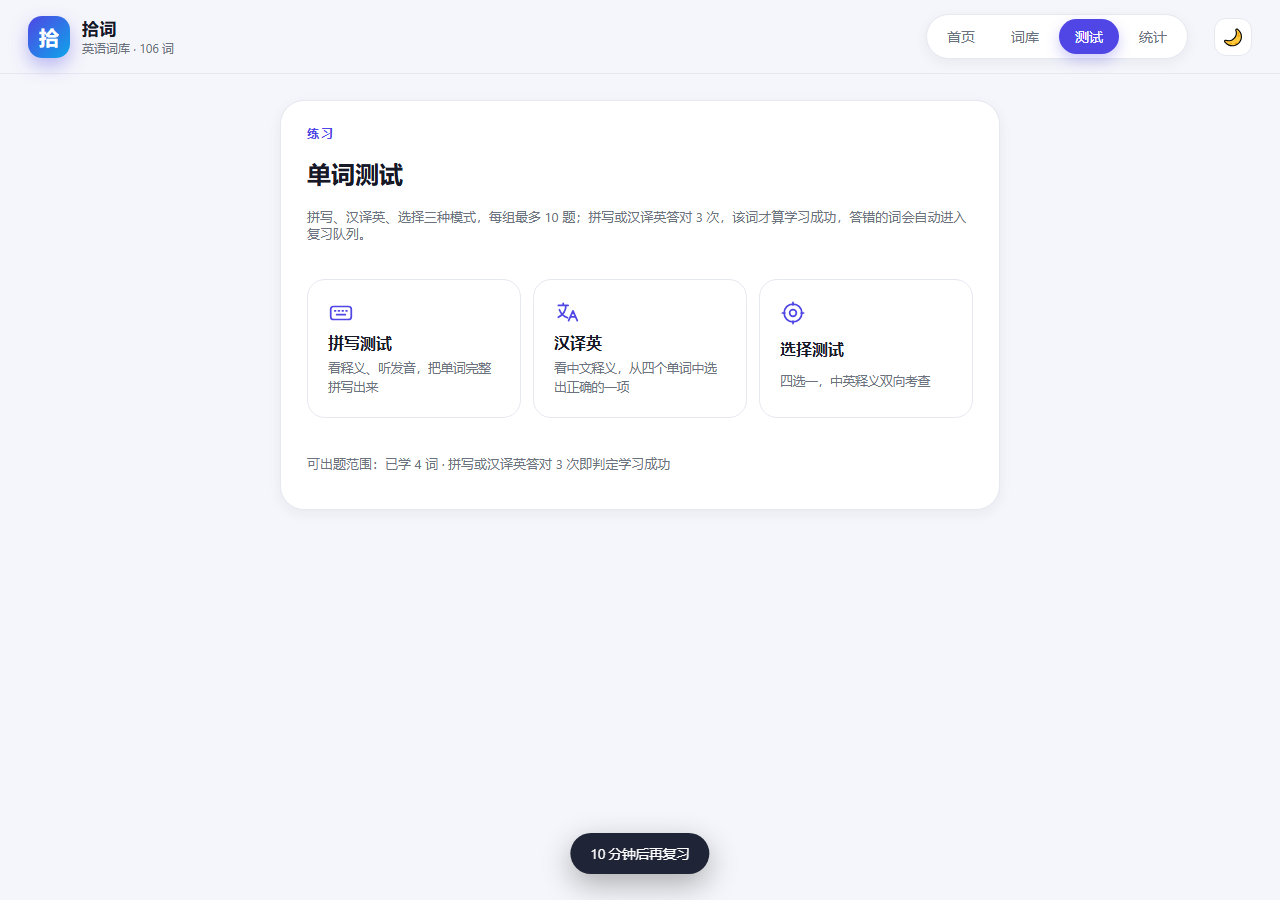
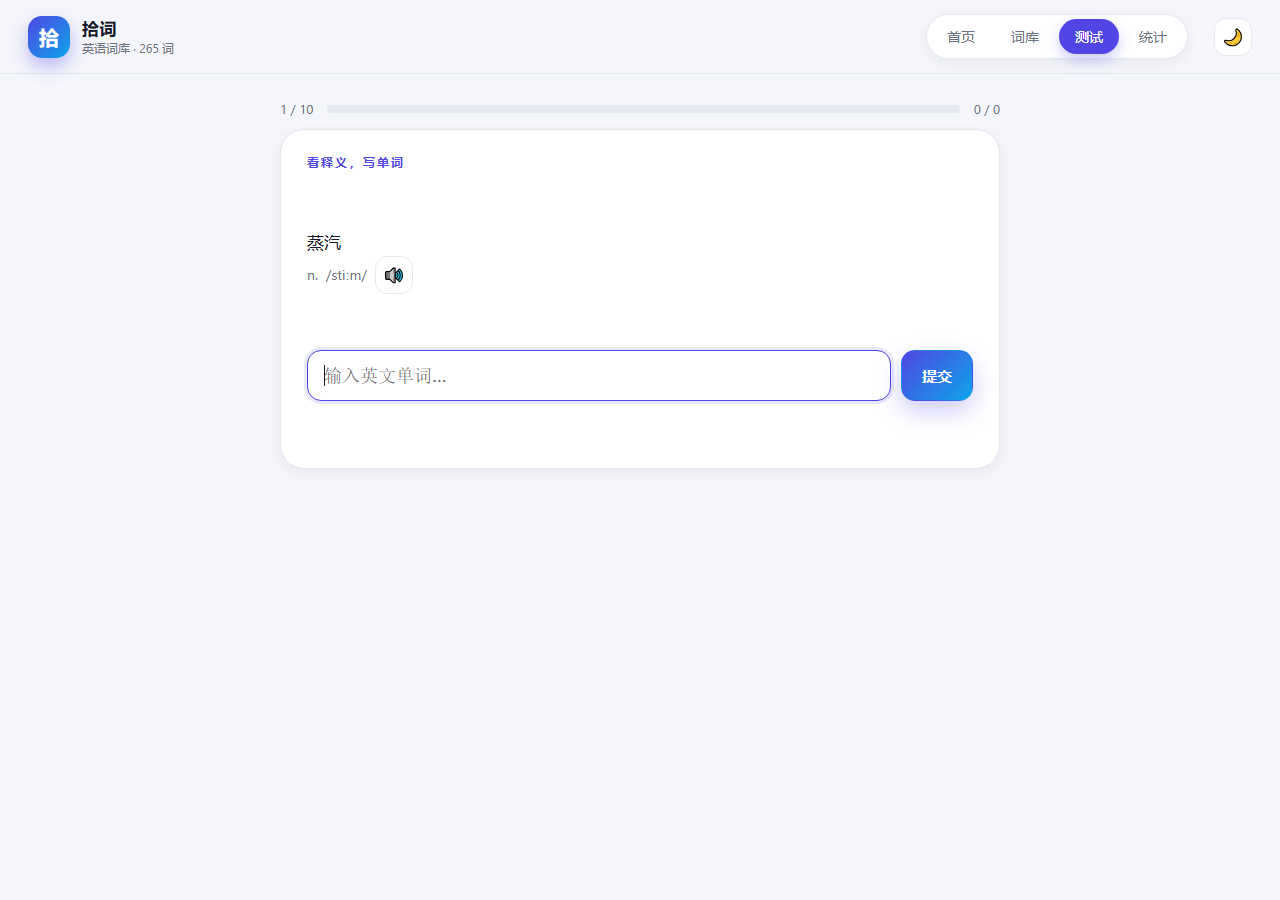
feat: 词库更新至265词，测试模式新增音标开关

diff --git a/index.html b/index.html
@@ -432,7 +432,7 @@
           <span class="pos" id="posText"></span>
           <p class="def" id="defText"></p>
         </div>
-        <div class="example">
+        <div class="example" id="exampleBox">
           <p class="ex-en"><span id="exEn"></span><button id="speakEx" aria-label="播放例句">🔊</button></p>
           <p class="ex-zh" id="exZh"></p>
         </div>
@@ -482,6 +482,13 @@
         <p class="eyebrow">练习</p>
         <h2>单词测试</h2>
         <p class="muted small">拼写、汉译英、选择三种模式，每组最多 10 题；拼写或汉译英答对 3 次，该词才算学习成功，答错的词会自动进入复习队列。</p>
+        <div class="field" style="margin:16px 0 4px">
+          <label>题目音标</label>
+          <div class="chips" id="ipaChips">
+            <button class="chip active" data-ipa="on">显示音标</button>
+            <button class="chip" data-ipa="off">隐藏音标</button>
+          </div>
+        </div>
         <div class="mode-cards">
           <button class="mode-card" data-quiz="spell">
             <span class="mode-icon" aria-hidden="true"><svg viewBox="0 0 24 24" width="26" height="26" fill="none" stroke="currentColor" stroke-width="1.6" stroke-linecap="round"><rect x="2.5" y="6" width="19" height="12" rx="2.6"/><path d="M6.2 10h.8M9.7 10h.8M13.2 10h.8M16.7 10h.8M8 13.6h8"/></svg></span>
@@ -591,7 +598,7 @@
       <button class="icon-btn" id="dSpeak" aria-label="播放发音">🔊</button>
     </div>
     <p class="modal-def"><span class="pos" id="dPos"></span> <span id="dDef"></span></p>
-    <div class="modal-ex">
+    <div class="modal-ex" id="dExample">
       <p class="ex-en"><span id="dEx"></span><button id="dSpeakEx" aria-label="播放例句">🔊</button></p>
       <p class="ex-zh" id="dExZh"></p>
     </div>
@@ -718,7 +725,166 @@ const WORDS = [
   {w:"Increasingly", ipa:"/ɪnˈkriːsɪŋli/", pos:"adv.", def:"越来越多地，日益", ex:"Work is becoming increasingly stressful.", exZh:"工作压力越来越大。"},
   {w:"Stuffing", ipa:"/ˈstʌfɪŋ/", pos:"n.", def:"（烹饪）填料，馅；填充物", ex:"She made stuffing for the turkey.", exZh:"她为火鸡做了填料。"},
   {w:"Stare at", ipa:"/steə æt/", pos:"phr.", def:"盯着看，凝视", ex:"Don't stare at people; it's rude.", exZh:"不要盯着人看，这样不礼貌。"},
-  {w:"Phrase", ipa:"/freɪz/", pos:"n. / v.", def:"短语，词组；措辞 / 用……措辞表达", ex:"Learn the phrase as a whole.", exZh:"把这个短语作为一个整体来记。"}
+  {w:"Phrase", ipa:"/freɪz/", pos:"n. / v.", def:"短语，词组；措辞 / 用……措辞表达", ex:"Learn the phrase as a whole.", exZh:"把这个短语作为一个整体来记。"},
+  {w:"Chemical", ipa:"/ˈkemɪkl/", pos:"adj. / n.", def:"化学的 / 化学品", ex:"", exZh:""},
+  {w:"Budget", ipa:"/ˈbʌdʒɪt/", pos:"n. / v.", def:"预算 / 编制预算", ex:"", exZh:""},
+  {w:"Lung", ipa:"/lʌŋ/", pos:"n.", def:"肺", ex:"", exZh:""},
+  {w:"Rush", ipa:"/rʌʃ/", pos:"v. / n.", def:"冲，急速行动 / 匆忙", ex:"", exZh:""},
+  {w:"Tale", ipa:"/teɪl/", pos:"n.", def:"故事，传说", ex:"", exZh:""},
+  {w:"Revise", ipa:"/rɪˈvaɪz/", pos:"v.", def:"修订，修改；复习", ex:"", exZh:""},
+  {w:"Highway", ipa:"/ˈhaɪweɪ/", pos:"n.", def:"公路", ex:"", exZh:""},
+  {w:"Rapid", ipa:"/ˈræpɪd/", pos:"adj.", def:"迅速的，快速的", ex:"", exZh:""},
+  {w:"Nail", ipa:"/neɪl/", pos:"n. / v.", def:"钉子；指甲 / 钉住", ex:"", exZh:""},
+  {w:"Pigeon", ipa:"/ˈpɪdʒɪn/", pos:"n.", def:"鸽子", ex:"", exZh:""},
+  {w:"Palace", ipa:"/ˈpæləs/", pos:"n.", def:"宫殿", ex:"", exZh:""},
+  {w:"Tuition", ipa:"/tjuˈɪʃn/", pos:"n.", def:"学费；教学", ex:"", exZh:""},
+  {w:"Rocket", ipa:"/ˈrɒkɪt/", pos:"n.", def:"火箭", ex:"", exZh:""},
+  {w:"Bleed", ipa:"/bliːd/", pos:"v.", def:"流血", ex:"", exZh:""},
+  {w:"Flat", ipa:"/flæt/", pos:"adj. / n.", def:"平的，水平的 / 公寓（英）", ex:"", exZh:""},
+  {w:"Dentist", ipa:"/ˈdentɪst/", pos:"n.", def:"牙科医生", ex:"", exZh:""},
+  {w:"Core", ipa:"/kɔː/", pos:"n.", def:"核心，果核", ex:"", exZh:""},
+  {w:"Fuel", ipa:"/ˈfjuːəl/", pos:"n. / v.", def:"燃料 / 加燃料", ex:"", exZh:""},
+  {w:"Citizen", ipa:"/ˈsɪtɪzn/", pos:"n.", def:"市民，公民", ex:"", exZh:""},
+  {w:"Radar", ipa:"/ˈreɪdɑː/", pos:"n.", def:"雷达", ex:"", exZh:""},
+  {w:"Lend", ipa:"/lend/", pos:"v.", def:"借出", ex:"", exZh:""},
+  {w:"Cable", ipa:"/ˈkeɪbl/", pos:"n.", def:"电缆，缆绳", ex:"", exZh:""},
+  {w:"Petrol", ipa:"/ˈpetrəl/", pos:"n.", def:"汽油（英）", ex:"", exZh:""},
+  {w:"Gasoline", ipa:"/ˈɡæsəliːn/", pos:"n.", def:"汽油（美）", ex:"", exZh:""},
+  {w:"Tablet", ipa:"/ˈtæblət/", pos:"n.", def:"平板电脑；药片", ex:"", exZh:""},
+  {w:"Decade", ipa:"/ˈdekeɪd/", pos:"n.", def:"十年", ex:"", exZh:""},
+  {w:"Selfish", ipa:"/ˈselfɪʃ/", pos:"adj.", def:"自私的", ex:"", exZh:""},
+  {w:"Scan", ipa:"/skæn/", pos:"v. / n.", def:"扫描；浏览 / 扫描", ex:"", exZh:""},
+  {w:"Tube", ipa:"/tjuːb/", pos:"n.", def:"管，隧道；地铁（英）", ex:"", exZh:""},
+  {w:"Therefore", ipa:"/ˈðeəfɔː/", pos:"adv.", def:"因此，所以", ex:"", exZh:""},
+  {w:"Unfortunately", ipa:"/ʌnˈfɔːtʃənətli/", pos:"adv.", def:"不幸地，遗憾地", ex:"", exZh:""},
+  {w:"Slice", ipa:"/slaɪs/", pos:"n. / v.", def:"薄片 / 切片", ex:"", exZh:""},
+  {w:"Clerk", ipa:"/klɑːk/", pos:"n.", def:"办事员，职员", ex:"", exZh:""},
+  {w:"Coach", ipa:"/kəʊtʃ/", pos:"n.", def:"教练；长途客车", ex:"", exZh:""},
+  {w:"Shore", ipa:"/ʃɔː/", pos:"n.", def:"岸，滨", ex:"", exZh:""},
+  {w:"Rural", ipa:"/ˈrʊərəl/", pos:"adj.", def:"乡下的，乡村的", ex:"", exZh:""},
+  {w:"Pilot", ipa:"/ˈpaɪlət/", pos:"n. / v.", def:"飞行员 / 驾驶，试验", ex:"", exZh:""},
+  {w:"Tape", ipa:"/teɪp/", pos:"n. / v.", def:"带子，磁带 / 录音", ex:"", exZh:""},
+  {w:"Jam", ipa:"/dʒæm/", pos:"n. / v.", def:"果酱 / 塞满，卡住", ex:"", exZh:""},
+  {w:"Bloom", ipa:"/bluːm/", pos:"v. / n.", def:"开花，繁荣 / 花", ex:"", exZh:""},
+  {w:"Trick", ipa:"/trɪk/", pos:"n. / v.", def:"诡计 / 欺骗", ex:"", exZh:""},
+  {w:"Tricky", ipa:"/ˈtrɪki/", pos:"adj.", def:"难以捉摸的，棘手的", ex:"", exZh:""},
+  {w:"In the hope of", ipa:"/ɪn ðə həʊp ɒv/", pos:"phr.", def:"怀着……的希望", ex:"", exZh:""},
+  {w:"Head office", ipa:"/hed ˈɒfɪs/", pos:"phr.", def:"总公司", ex:"", exZh:""},
+  {w:"Weigh", ipa:"/weɪ/", pos:"v.", def:"称重；重达", ex:"", exZh:""},
+  {w:"Head for", ipa:"/hed fɔː/", pos:"phr.", def:"前往，出发去", ex:"", exZh:""},
+  {w:"Headache", ipa:"/ˈhedeɪk/", pos:"n.", def:"头疼", ex:"", exZh:""},
+  {w:"Headline", ipa:"/ˈhedlaɪn/", pos:"n.", def:"头条新闻", ex:"", exZh:""},
+  {w:"Headquarters", ipa:"/ˌhedˈkwɔːtəz/", pos:"n.", def:"总部", ex:"", exZh:""},
+  {w:"Trace", ipa:"/treɪs/", pos:"n. / v.", def:"踪迹 / 追踪", ex:"", exZh:""},
+  {w:"Trace back to", ipa:"/treɪs bæk tuː/", pos:"phr.", def:"追溯到", ex:"", exZh:""},
+  {w:"Smooth", ipa:"/smuːð/", pos:"adj.", def:"光滑的；顺利的", ex:"", exZh:""},
+  {w:"Or so", ipa:"/ɔː səʊ/", pos:"phr.", def:"大约，左右", ex:"", exZh:""},
+  {w:"And so on/forth", ipa:"/ənd səʊ ɒn/", pos:"phr.", def:"等等", ex:"", exZh:""},
+  {w:"So far", ipa:"/səʊ fɑː/", pos:"phr.", def:"迄今为止", ex:"", exZh:""},
+  {w:"So as to", ipa:"/səʊ æz tuː/", pos:"phr.", def:"为了，以便", ex:"", exZh:""},
+  {w:"Couple", ipa:"/ˈkʌpl/", pos:"n.", def:"两个，几个；夫妇", ex:"", exZh:""},
+  {w:"Oral", ipa:"/ˈɔːrəl/", pos:"adj.", def:"口头的", ex:"", exZh:""},
+  {w:"Review", ipa:"/rɪˈvjuː/", pos:"n. / v.", def:"回顾，复习；评论 / 复习", ex:"", exZh:""},
+  {w:"Tone", ipa:"/təʊn/", pos:"n.", def:"语气，音调；风格", ex:"", exZh:""},
+  {w:"The rest", ipa:"/ðə rest/", pos:"phr.", def:"剩余部分，其余部分", ex:"", exZh:""},
+  {w:"Restless", ipa:"/ˈrestləs/", pos:"adj.", def:"得不到休息的，不安宁的", ex:"", exZh:""},
+  {w:"Tip", ipa:"/tɪp/", pos:"n. / v.", def:"尖端；小费 / 倾斜", ex:"", exZh:""},
+  {w:"Troop", ipa:"/truːp/", pos:"n.", def:"一群；军队，部队", ex:"", exZh:""},
+  {w:"Target", ipa:"/ˈtɑːɡɪt/", pos:"n.", def:"靶子，目标", ex:"", exZh:""},
+  {w:"Sort out", ipa:"/sɔːt aʊt/", pos:"phr.", def:"整理，分类；解决", ex:"", exZh:""},
+  {w:"Other than", ipa:"/ˈʌðə ðæn/", pos:"phr.", def:"除了", ex:"", exZh:""},
+  {w:"The other day", ipa:"/ði ˈʌðə deɪ/", pos:"phr.", def:"不久前的某天", ex:"", exZh:""},
+  {w:"At times", ipa:"/ət taɪmz/", pos:"phr.", def:"有时", ex:"", exZh:""},
+  {w:"For the time being", ipa:"/fɔː ðə taɪm ˈbiːɪŋ/", pos:"phr.", def:"暂时", ex:"", exZh:""},
+  {w:"From time to time", ipa:"/frəm taɪm tuː taɪm/", pos:"phr.", def:"有时，不时", ex:"", exZh:""},
+  {w:"In no time", ipa:"/ɪn nəʊ taɪm/", pos:"phr.", def:"立即，马上", ex:"", exZh:""},
+  {w:"Once upon a time", ipa:"/wʌns əˈpɒn ə taɪm/", pos:"phr.", def:"从前", ex:"", exZh:""},
+  {w:"Take one's time", ipa:"/teɪk wʌnz taɪm/", pos:"phr.", def:"从容不迫，慢慢来", ex:"", exZh:""},
+  {w:"Iron", ipa:"/ˈaɪən/", pos:"n. / v.", def:"铁；熨斗 / 熨烫", ex:"", exZh:""},
+  {w:"Sow", ipa:"/səʊ/", pos:"v.", def:"播种", ex:"", exZh:""},
+  {w:"By way of", ipa:"/baɪ weɪ ɒv/", pos:"phr.", def:"通过……方法；经由", ex:"", exZh:""},
+  {w:"In a way", ipa:"/ɪn ə weɪ/", pos:"phr.", def:"在某种意义上", ex:"", exZh:""},
+  {w:"In the way", ipa:"/ɪn ðə weɪ/", pos:"phr.", def:"挡道", ex:"", exZh:""},
+  {w:"Under way", ipa:"/ˈʌndə weɪ/", pos:"phr.", def:"在进行中", ex:"", exZh:""},
+  {w:"Make way", ipa:"/meɪk weɪ/", pos:"phr.", def:"让路", ex:"", exZh:""},
+  {w:"Make one's way", ipa:"/meɪk wʌnz weɪ/", pos:"phr.", def:"行进，前往", ex:"", exZh:""},
+  {w:"Garbage", ipa:"/ˈɡɑːbɪdʒ/", pos:"n.", def:"垃圾", ex:"", exZh:""},
+  {w:"Source", ipa:"/sɔːs/", pos:"n.", def:"来源，源头", ex:"", exZh:""},
+  {w:"Meet", ipa:"/miːt/", pos:"v.", def:"遇见；满足", ex:"", exZh:""},
+  {w:"Hold", ipa:"/həʊld/", pos:"v.", def:"握住；容纳；举行", ex:"", exZh:""},
+  {w:"Bury", ipa:"/ˈberi/", pos:"v.", def:"埋葬；掩埋", ex:"", exZh:""},
+  {w:"Dump", ipa:"/dʌmp/", pos:"v. / n.", def:"倾倒 / 垃圾场", ex:"", exZh:""},
+  {w:"Coal", ipa:"/kəʊl/", pos:"n.", def:"煤", ex:"", exZh:""},
+  {w:"Petroleum", ipa:"/pəˈtrəʊliəm/", pos:"n.", def:"石油", ex:"", exZh:""},
+  {w:"Gas", ipa:"/ɡæs/", pos:"n.", def:"气体；汽油", ex:"", exZh:""},
+  {w:"Scarce", ipa:"/skeəs/", pos:"adj.", def:"稀少的，缺乏的", ex:"", exZh:""},
+  {w:"Fossil fuel", ipa:"/ˈfɒsl fjuːəl/", pos:"phr.", def:"化石燃料", ex:"", exZh:""},
+  {w:"Supply", ipa:"/səˈplaɪ/", pos:"n. / v.", def:"供应，供给", ex:"", exZh:""},
+  {w:"Steam", ipa:"/stiːm/", pos:"n.", def:"蒸汽", ex:"", exZh:""},
+  {w:"Power plant", ipa:"/ˈpaʊə plɑːnt/", pos:"phr.", def:"发电厂", ex:"", exZh:""},
+  {w:"Barrel", ipa:"/ˈbærəl/", pos:"n.", def:"桶", ex:"", exZh:""},
+  {w:"Separate", ipa:"/ˈsepəreɪt/", pos:"v. / adj.", def:"分开 / 单独的", ex:"", exZh:""},
+  {w:"Metal", ipa:"/ˈmetl/", pos:"n.", def:"金属", ex:"", exZh:""},
+  {w:"Process", ipa:"/ˈprəʊses/", pos:"n. / v.", def:"过程 / 处理", ex:"", exZh:""},
+  {w:"Pile up", ipa:"/paɪl ʌp/", pos:"phr.", def:"堆积", ex:"", exZh:""},
+  {w:"Pile", ipa:"/paɪl/", pos:"n. / v.", def:"堆 / 堆放", ex:"", exZh:""},
+  {w:"Take up", ipa:"/teɪk ʌp/", pos:"phr.", def:"占用；开始从事", ex:"", exZh:""},
+  {w:"Account for", ipa:"/əˈkaʊnt fɔː/", pos:"phr.", def:"解释；占（比例）", ex:"", exZh:""},
+  {w:"Get on well with...", ipa:"/ɡet ɒn wel wɪð/", pos:"phr.", def:"与……相处融洽", ex:"", exZh:""},
+  {w:"Overseas", ipa:"/ˌəʊvəˈsiːz/", pos:"adj. / adv.", def:"海外的 / 在海外", ex:"", exZh:""},
+  {w:"Illegally", ipa:"/ɪˈliːɡəli/", pos:"adv.", def:"非法地", ex:"", exZh:""},
+  {w:"Legal", ipa:"/ˈliːɡl/", pos:"adj.", def:"合法的；法律的", ex:"", exZh:""},
+  {w:"Private", ipa:"/ˈpraɪvət/", pos:"adj.", def:"私人的，私有的", ex:"", exZh:""},
+  {w:"Collector", ipa:"/kəˈlektə/", pos:"n.", def:"收藏家；收集者", ex:"", exZh:""},
+  {w:"Treasure", ipa:"/ˈtreʒə/", pos:"n. / v.", def:"宝藏 / 珍视", ex:"", exZh:""},
+  {w:"Own", ipa:"/əʊn/", pos:"adj. / v.", def:"自己的 / 拥有", ex:"", exZh:""},
+  {w:"Major", ipa:"/ˈmeɪdʒə/", pos:"adj. / n.", def:"主要的 / 专业", ex:"", exZh:""},
+  {w:"Recover", ipa:"/rɪˈkʌvə/", pos:"v.", def:"恢复；找回", ex:"", exZh:""},
+  {w:"In the same case", ipa:"/ɪn ðə seɪm keɪs/", pos:"phr.", def:"在同样的情况下", ex:"", exZh:""},
+  {w:"Donate", ipa:"/dəʊˈneɪt/", pos:"v.", def:"捐赠", ex:"", exZh:""},
+  {w:"Turn to", ipa:"/tɜːn tuː/", pos:"phr.", def:"求助于；转向", ex:"", exZh:""},
+  {w:"Channel", ipa:"/ˈtʃænl/", pos:"n.", def:"频道；渠道；海峡", ex:"", exZh:""},
+  {w:"Demand", ipa:"/dɪˈmɑːnd/", pos:"n. / v.", def:"需求 / 要求", ex:"", exZh:""},
+  {w:"Priceless", ipa:"/ˈpraɪsləs/", pos:"adj.", def:"无价的，极珍贵的", ex:"", exZh:""},
+  {w:"Bronze", ipa:"/brɒnz/", pos:"n.", def:"青铜；青铜色", ex:"", exZh:""},
+  {w:"Entrepreneur", ipa:"/ˌɒntrəprəˈnɜː/", pos:"n.", def:"企业家", ex:"", exZh:""},
+  {w:"Precious", ipa:"/ˈpreʃəs/", pos:"adj.", def:"珍贵的", ex:"", exZh:""},
+  {w:"Recovery", ipa:"/rɪˈkʌvəri/", pos:"n.", def:"恢复；复苏", ex:"", exZh:""},
+  {w:"Set up", ipa:"/set ʌp/", pos:"phr.", def:"建立，设立", ex:"", exZh:""},
+  {w:"Database", ipa:"/ˈdeɪtəbeɪs/", pos:"n.", def:"数据库", ex:"", exZh:""},
+  {w:"Relevant", ipa:"/ˈreləvənt/", pos:"adj.", def:"相关的", ex:"", exZh:""},
+  {w:"Sign", ipa:"/saɪn/", pos:"n. / v.", def:"标志 / 签名", ex:"", exZh:""},
+  {w:"Infer", ipa:"/ɪnˈfɜː/", pos:"v.", def:"推断", ex:"", exZh:""},
+  {w:"Vary", ipa:"/ˈveəri/", pos:"v.", def:"变化，不同", ex:"", exZh:""},
+  {w:"Court", ipa:"/kɔːt/", pos:"n.", def:"法院；球场；宫廷", ex:"", exZh:""},
+  {w:"Get rid of", ipa:"/ɡet rɪd ɒv/", pos:"phr.", def:"摆脱，除去", ex:"", exZh:""},
+  {w:"Standard", ipa:"/ˈstændəd/", pos:"n. / adj.", def:"标准 / 标准的", ex:"", exZh:""},
+  {w:"In addition", ipa:"/ɪn əˈdɪʃn/", pos:"phr.", def:"另外，此外", ex:"", exZh:""},
+  {w:"A set of", ipa:"/ə set ɒv/", pos:"phr.", def:"一套，一组", ex:"", exZh:""},
+  {w:"Movable", ipa:"/ˈmuːvəbl/", pos:"adj.", def:"可移动的", ex:"", exZh:""},
+  {w:"Post", ipa:"/pəʊst/", pos:"n. / v.", def:"邮政；职位 / 邮寄", ex:"", exZh:""},
+  {w:"Concentration", ipa:"/ˌkɒnsnˈtreɪʃn/", pos:"n.", def:"专注；浓度", ex:"", exZh:""},
+  {w:"Concentrate on", ipa:"/ˈkɒnsntreɪt ɒn/", pos:"phr.", def:"专注于", ex:"", exZh:""},
+  {w:"Injure", ipa:"/ˈɪndʒə/", pos:"v.", def:"伤害", ex:"", exZh:""},
+  {w:"Urge", ipa:"/ɜːdʒ/", pos:"v. / n.", def:"敦促 / 冲动", ex:"", exZh:""},
+  {w:"Involve", ipa:"/ɪnˈvɒlv/", pos:"v.", def:"涉及；使参与", ex:"", exZh:""},
+  {w:"Attend", ipa:"/əˈtend/", pos:"v.", def:"出席；照料", ex:"", exZh:""},
+  {w:"Financial", ipa:"/faɪˈnænʃl/", pos:"adj.", def:"财务的，金融的", ex:"", exZh:""},
+  {w:"Undergraduate", ipa:"/ˌʌndəˈɡrædʒuət/", pos:"n.", def:"本科生", ex:"", exZh:""},
+  {w:"Application", ipa:"/ˌæplɪˈkeɪʃn/", pos:"n.", def:"申请；应用", ex:"", exZh:""},
+  {w:"Proof", ipa:"/pruːf/", pos:"n.", def:"证据，证明", ex:"", exZh:""},
+  {w:"Ensure", ipa:"/ɪnˈʃʊə/", pos:"v.", def:"确保", ex:"", exZh:""},
+  {w:"Procedure", ipa:"/prəˈsiːdʒə/", pos:"n.", def:"程序，步骤", ex:"", exZh:""},
+  {w:"Statement", ipa:"/ˈsteɪtmənt/", pos:"n.", def:"陈述；报表", ex:"", exZh:""},
+  {w:"Issue", ipa:"/ˈɪʃuː/", pos:"n. / v.", def:"问题；期号 / 发布", ex:"", exZh:""},
+  {w:"Occasionally", ipa:"/əˈkeɪʒnəli/", pos:"adv.", def:"偶尔", ex:"", exZh:""},
+  {w:"Generally", ipa:"/ˈdʒenrəli/", pos:"adv.", def:"通常，一般地", ex:"", exZh:""},
+  {w:"Variety", ipa:"/vəˈraɪəti/", pos:"n.", def:"多样性；种类", ex:"", exZh:""},
+  {w:"Sort", ipa:"/sɔːt/", pos:"n. / v.", def:"种类 / 分类", ex:"", exZh:""},
+  {w:"A variety of", ipa:"/ə vəˈraɪəti ɒv/", pos:"phr.", def:"各种各样的", ex:"", exZh:""},
+  {w:"Financial assistance", ipa:"/faɪˈnænʃl əˈsɪstəns/", pos:"phr.", def:"经济援助", ex:"", exZh:""},
+  {w:"Various", ipa:"/ˈveəriəs/", pos:"adj.", def:"各种各样的", ex:"", exZh:""},
+  {w:"Accommodation", ipa:"/əˌkɒməˈdeɪʃn/", pos:"n.", def:"住宿，膳宿", ex:"", exZh:""}
 ];
 
 /* =========================================================
@@ -730,7 +896,7 @@ const MIN = 60000;
 const IV = [0, 10/1440, 1, 3, 7, 21, 60]; // 各记忆盒间隔（天）
 
 const defaultState = () => ({
-  data: {}, days: {}, settings: { dailyNew: 10, masterN: 3, autoSpeak: true, theme: "light" }, recent: []
+  data: {}, days: {}, settings: { dailyNew: 10, masterN: 3, autoSpeak: true, showIpa: true, theme: "light" }, recent: []
 });
 let S = defaultState();
 let storageOK = true;
@@ -741,7 +907,7 @@ function load() {
     if (raw) {
       const obj = JSON.parse(raw);
       S = Object.assign(defaultState(), obj);
-      S.settings = Object.assign({ dailyNew: 10, masterN: 3, autoSpeak: true, theme: "light" }, obj.settings || {});
+      S.settings = Object.assign({ dailyNew: 10, masterN: 3, autoSpeak: true, showIpa: true, theme: "light" }, obj.settings || {});
     }
   } catch (e) { storageOK = false; }
   ensureDay();
@@ -975,6 +1141,7 @@ function showCard() {
   $("defText").textContent = w.def;
   $("exEn").textContent = w.ex;
   $("exZh").textContent = w.exZh;
+  $("exampleBox").classList.toggle("hidden", !w.ex);
   const prod = st.prod || 0;
   $("prodText").innerHTML = prod >= masterN()
     ? "拼写 / 汉译英 <b>" + prod + " / " + masterN() + "</b> · 已学习成功 ✓"
@@ -1137,6 +1304,7 @@ function openDetail(i) {
   $("dDef").textContent = w.def;
   $("dEx").textContent = w.ex;
   $("dExZh").textContent = w.exZh;
+  $("dExample").classList.toggle("hidden", !w.ex);
   $("dNote").value = st.note || "";
   $("dSeen").textContent = "学习 " + (st.seen || 0) + " 次";
   const prod = st.prod || 0;
@@ -1213,7 +1381,7 @@ function showQuestion() {
     stem.appendChild(p);
     const ipa = document.createElement("div");
     ipa.className = "quiz-ipa";
-    ipa.innerHTML = '<span>' + esc(w.pos) + '</span><span>' + esc(w.ipa) + '</span><button class="icon-btn" id="quizSpeak" aria-label="播放发音">🔊</button>';
+    ipa.innerHTML = '<span>' + esc(w.pos) + '</span>' + (S.settings.showIpa !== false ? '<span>' + esc(w.ipa) + '</span>' : '') + '<button class="icon-btn" id="quizSpeak" aria-label="播放发音">🔊</button>';
     stem.appendChild(ipa);
     ipa.querySelector("#quizSpeak").onclick = () => speak(w.w);
     const row = document.createElement("div");
@@ -1226,7 +1394,7 @@ function showQuestion() {
     speak(w.w);
   } else if (q.askWord) {
     $("quizKind").textContent = "选择正确的释义";
-    stem.innerHTML = '<p class="quiz-word">' + esc(w.w) + '</p><div class="quiz-ipa"><span>' + esc(w.ipa) + '</span><button class="icon-btn" id="quizSpeak" aria-label="播放发音">🔊</button></div>';
+    stem.innerHTML = '<p class="quiz-word">' + esc(w.w) + '</p><div class="quiz-ipa">' + (S.settings.showIpa !== false ? '<span>' + esc(w.ipa) + '</span>' : '') + '<button class="icon-btn" id="quizSpeak" aria-label="播放发音">🔊</button></div>';
     stem.querySelector("#quizSpeak").onclick = () => speak(w.w);
     const opts = document.createElement("div");
     opts.className = "options";
@@ -1247,7 +1415,7 @@ function showQuestion() {
     stem.appendChild(p);
     const ipa = document.createElement("div");
     ipa.className = "quiz-ipa";
-    ipa.innerHTML = '<span>' + esc(w.pos) + '</span><span>' + esc(w.ipa) + '</span>';
+    ipa.innerHTML = '<span>' + esc(w.pos) + '</span>' + (S.settings.showIpa !== false ? '<span>' + esc(w.ipa) + '</span>' : '');
     stem.appendChild(ipa);
     const opts = document.createElement("div");
     opts.className = "options";
@@ -1442,8 +1610,10 @@ function applyTheme(t) {
 /* =========================================================
    事件绑定
    ========================================================= */
-function bind() {
-  $$("#tabs button").forEach(b => b.onclick = () => go(b.dataset.view));
+function syncIpaChips(){
+  $$("#ipaChips .chip").forEach(c => c.classList.toggle("active", (c.dataset.ipa === "on") === (S.settings.showIpa !== false)));
+}
+function bind() {  $$("#tabs button").forEach(b => b.onclick = () => go(b.dataset.view));
   $("themeBtn").onclick = () => applyTheme(document.documentElement.dataset.theme === "dark" ? "light" : "dark");
   $("btnLearn").onclick = () => startStudy("learn");
   $("btnReview").onclick = () => startStudy("review");
@@ -1478,6 +1648,13 @@ function bind() {
   });
 
   $$(".mode-card").forEach(b => b.onclick = () => startQuiz(b.dataset.quiz));
+  $$("#ipaChips .chip").forEach(c => c.onclick = () => {
+    S.settings.showIpa = c.dataset.ipa === "on";
+    save();
+    syncIpaChips();
+    toast(S.settings.showIpa ? "已开启音标" : "已隐藏音标");
+  });
+  syncIpaChips();
   $("quizNext").onclick = nextQuestion;
   $("quizAgain").onclick = () => startQuiz(quiz.kind);
   $("quizBack").onclick = () => { renderHome(); go("home"); };

diff --git a/README.md b/README.md
@@ -1,6 +1,6 @@
 # 拾词 · 英语词库（网页版）
 
-一个参考「不背单词」学习体验的纯前端单词应用，零依赖、可离线使用。内置 106 个词条，含音标、词性、中文释义与例句。
+一个参考「不背单词」学习体验的纯前端单词应用，零依赖、可离线使用。内置 265 个词条，含音标、词性、中文释义与例句（新增词条以音标、词性、释义为主，例句逐步补充）。
 
 ## 打开方式
 
@@ -14,7 +14,7 @@
 | 学习 | 单词卡片：音标、发音、释义、例句；按「忘记 / 模糊 / 认识 / 熟练」四档评分 |
 | 复习 | 间隔重复算法自动安排下次复习（10 分钟 → 1 天 → 3 天 → 7 天 → 21 天 → 60 天） |
 | 错题巩固 | 学习/复习中选「忘记」会在本组随机间隔处重复 3 次，「模糊」重复 2 次，强化记忆 |
-| 测试 | 拼写测试（听发音写单词）、汉译英（看释义选单词）、选择测试（中英双向），错词自动进入复习 |
+| 测试 | 拼写测试（听发音写单词）、汉译英（看释义选单词）、选择测试（中英双向），错词自动进入复习；三种模式均可开关「题目音标」 |
 | 词库 | 搜索、按状态筛选、生词本收藏、单词详情与个人笔记 |
 | 统计 | 7 天学习柱状图、掌握程度分布、每日新词数量、掌握判定次数、自动朗读开关、清空数据 |
 | 外观 | 浅色 / 深色主题，桌面与手机自适应 |
@@ -29,6 +29,7 @@
 
 - **每日新词数量**：5 / 10 / 15 / 20 词，或 **不限量（全部学完）**。
 - **判定「学习成功」所需拼写 / 汉译英正确次数**：2–5 次。
+- **题目音标**：拼写 / 汉译英 / 选择测试中可切换「显示音标 / 隐藏音标」，选择会记住。
 - 学习时自动朗读、深色模式、清空数据。
 
 ## 快捷键
